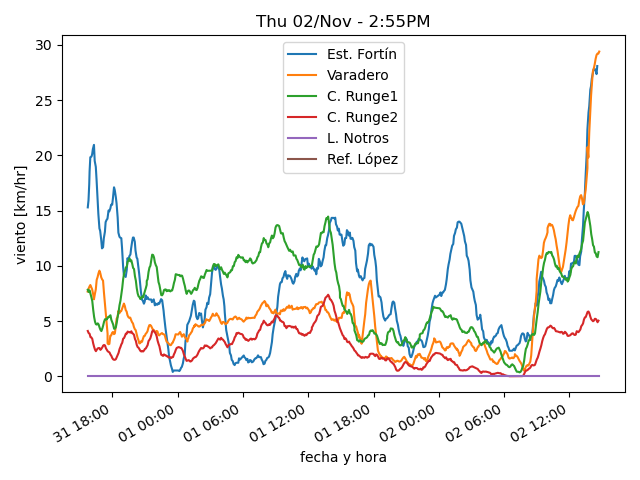
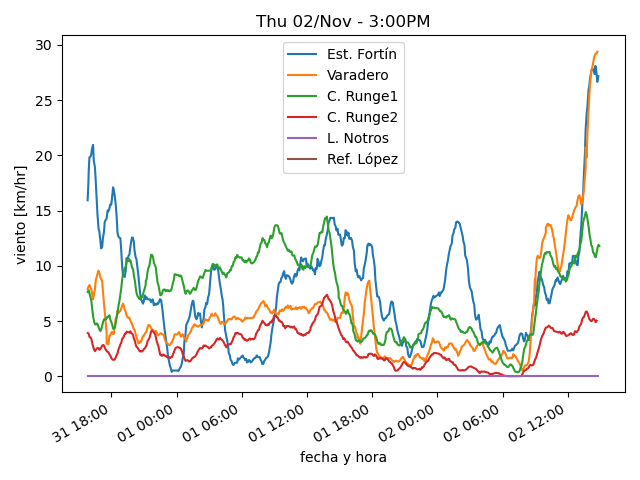
actualiza datos

diff --git a/estaciones/estacion3.html b/estaciones/estacion3.html
@@ -18,32 +18,32 @@
     </tr>
     <tr>
      <td class="stats_data">
-      2:39PM
+      2:54PM
      </td>
     </tr>
     <tr>
      <td class="stats_data">
-      10.7⁰C
+      11.2⁰C
      </td>
     </tr>
     <tr>
      <td class="stats_data">
-      3.2⁰C
+      3.7⁰C
      </td>
     </tr>
     <tr>
      <td class="stats_data">
-      60.0%
+      59.7%
      </td>
     </tr>
     <tr>
      <td class="stats_data">
-      1009.62hPa
+      1009.72hPa
      </td>
     </tr>
     <tr>
      <td class="stats_data">
-      8.4/13.1 km/hr WNW
+      5.5/8.6 km/hr NW
      </td>
     </tr>
     <tr>
@@ -53,12 +53,12 @@
     </tr>
     <tr>
      <td class="stats_data">
-      3.0
+      4.0
      </td>
     </tr>
     <tr>
      <td class="stats_data">
-      321.9 W/m²
+      357.8 W/m²
      </td>
     </tr>
    </tbody>

diff --git a/estaciones/estacion1.html b/estaciones/estacion1.html
@@ -18,22 +18,22 @@
     </tr>
     <tr>
      <td class="stats_data">
-      2:33PM
+      2:49PM
      </td>
     </tr>
     <tr>
      <td class="stats_data">
-      11.7⁰C
+      12.4⁰C
      </td>
     </tr>
     <tr>
      <td class="stats_data">
-      2.4⁰C
+      2.5⁰C
      </td>
     </tr>
     <tr>
      <td class="stats_data">
-      53.0%
+      50.7%
      </td>
     </tr>
     <tr>
@@ -43,7 +43,7 @@
     </tr>
     <tr>
      <td class="stats_data">
-      15.3/29.8 km/hr WNW
+      21.0/30.0 km/hr WNW
      </td>
     </tr>
     <tr>
@@ -53,12 +53,12 @@
     </tr>
     <tr>
      <td class="stats_data">
-      6.6
+      7.4
      </td>
     </tr>
     <tr>
      <td class="stats_data">
-      371.0 W/m²
+      425.0 W/m²
      </td>
     </tr>
    </tbody>
